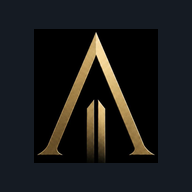
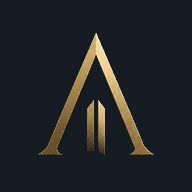
v26
Skip button update and adding a icon edits

diff --git a/app.js b/app.js
@@ -62,6 +62,29 @@ function migrateEquipmentUpgrade(){
   state.notes=migratedNotes;
   state.equipmentUpgradeV23=true;
 }
+function sessionId(member,week,day,index){return [member,week,day,index].join('|')}
+function planForSession(member,week){
+  const plan=programFor(member);
+  const snapshots=state.programSnapshots||{};
+  for(const day of Object.keys(plan)){
+    const snapshot=snapshots[[member,week,day].join('|')];
+    if(snapshot)plan[day].exercises=cloneExercises(snapshot);
+    plan[day].exercises=plan[day].exercises.map((ex,i)=>{
+      const replacement=state.sessionSwaps?.[sessionId(member,week,day,i)];
+      return replacement? [...replacement]:ex;
+    });
+  }
+  return plan;
+}
+function isSkipped(member,week,day,index){return !!state.skippedExercises?.[sessionId(member,week,day,index)]}
+function snapshotCurrentPrograms(member){
+  state.programSnapshots ||= {};
+  const plan=programFor(member);
+  for(let w=1;w<=state.week;w++)for(const day of Object.keys(plan)){
+    const k=[member,w,day].join('|');
+    if(!state.programSnapshots[k])state.programSnapshots[k]=cloneExercises(plan[day].exercises);
+  }
+}
 function programFor(member){
   migratePrograms();
   const base=baseProgramFor(member);
@@ -104,7 +127,7 @@ function noteButton(scope,label,member,week,day,exercise,setIndex,compact=false)
 function getLog(member,week,day,exercise){return state.logs[key(member,week,day,exercise)] || null}
 function targetText(ex){return ex[3]==null?'Each':`${ex[2]}–${ex[3]}`}
 function sessionRows(member,week,day,exercise){
-  const plan=programFor(member);
+  const plan=planForSession(member,week);
   const ex=plan[day]?.exercises.find(x=>x[0]===exercise); if(!ex) return null;
   const existing=getLog(member,week,day,exercise);
   if(existing){
@@ -129,7 +152,7 @@ function metrics(log,ex){
   return {top:Math.max(0,...weights),reps:repsTotal,volume,ready};
 }
 function dayComplete(member,week,day){
-  return programFor(member)[day].exercises.every(ex=>{const l=getLog(member,week,day,ex[0]); return ex[1]===0 ? true : !!l && l.sets.length===ex[1] && l.sets.every(s=>s.reps!=='');});
+  return planForSession(member,week)[day].exercises.every((ex,i)=>{if(isSkipped(member,week,day,i))return true;const l=getLog(member,week,day,ex[0]); return ex[1]===0 ? true : !!l && l.sets.length===ex[1] && l.sets.every(s=>s.reps!=='');});
 }
 function esc(s){return String(s).replace(/[&<>"']/g,c=>({'&':'&amp;','<':'&lt;','>':'&gt;','"':'&quot;',"'":'&#39;'}[c]))}
 function toast(msg){const t=document.getElementById('toast');t.textContent=msg;t.classList.add('show');setTimeout(()=>t.classList.remove('show'),1700)}
@@ -145,12 +168,12 @@ function homeView(){
   </section><div class="section-title">Training days</div><div class="day-grid">${days.map(day=>dayCard(m,w,day)).join('')}</div>
   <div class="section-title">Program notes</div><div class="info">Choose a starting weight. Keep that weight until all target sets reach the top of the range. Then add 5 lb next session and start the rep target back at the bottom.</div>`;
 }
-function dayCard(m,w,day){const plan=programFor(m),done=dayComplete(m,w,day), n=plan[day].exercises.length;return `<button class="day-card" data-open-day="${day}" style="text-align:left"><div class="day-top"><div><div class="day-name">${day}</div><div class="focus">${plan[day].focus} · ${n} exercises</div></div><div class="done-dot ${done?'done':''}"></div></div><div class="action-row" style="margin-top:12px"><span class="secondary" style="display:flex;align-items:center;justify-content:center">${done?'Review':'Start workout'}</span></div></button>`}
+function dayCard(m,w,day){const plan=planForSession(m,w),done=dayComplete(m,w,day), n=plan[day].exercises.length;return `<button class="day-card" data-open-day="${day}" style="text-align:left"><div class="day-top"><div><div class="day-name">${day}</div><div class="focus">${plan[day].focus} · ${n} exercises</div></div><div class="done-dot ${done?'done':''}"></div></div><div class="action-row" style="margin-top:12px"><span class="secondary" style="display:flex;align-items:center;justify-content:center">${done?'Review':'Start workout'}</span></div></button>`}
 
 function workoutView(week,day){
-  const m=state.member, info=programFor(m)[day];
+  const m=state.member, info=planForSession(m,week)[day];
   return `<div class="workout-head"><div><button class="back" data-back>← Back</button><h2 style="margin-top:14px">${day} · Week ${week}</h2><p>${esc(info.focus)}</p></div>${noteButton('workout',day+' workout',m,week,day)}</div>
-    ${info.exercises.map((ex,i)=>exerciseCard(m,week,day,ex,i)).join('')}
+    ${info.exercises.map((ex,i)=>isSkipped(m,week,day,i)?`<article class="exercise skipped-exercise"><div class="exercise-head"><div><div class="exercise-name">${esc(ex[0])}</div><div class="muted">Skipped for this workout</div></div><button class="secondary" data-unskip="${i}">Restore</button></div></article>`:exerciseCard(m,week,day,ex,i)).join('')}
     <div class="action-row" style="margin:18px 0 6px"><button class="primary" data-finish-workout>Save ${day}</button></div>`;
 }
 
@@ -173,6 +196,7 @@ function exerciseCard(m,w,day,ex,index=0){
   const status=loggedCount>=ex[1]?'complete':loggedCount>0?'active':'ready';
   const superset=(day==='Friday' && (ex[0]==='EZ Curl'||ex[0]==='Triceps Pushdown'))?'<span class="superset-badge">SUPERSET A</span>':'';
   return `<article class="exercise exercise-${status}" data-exercise="${esc(ex[0])}"><div class="exercise-head"><div><div class="exercise-index">EXERCISE ${String(index+1).padStart(2,'0')} · ${status==='complete'?'COMPLETE':status==='active'?'IN PROGRESS':'READY'}</div><div class="exercise-name">${esc(ex[0])}</div><div class="range">${targetText(ex)} reps · ${isSaved?'saved':'ready to log'} ${superset}</div></div><button class="plate-quick" data-plate-ex="${esc(ex[0])}" data-plate-weight="${suggested||''}" aria-label="Plate count for ${esc(ex[0])}">🧮 ${suggested?suggested+' lb':'Plates'}</button>${mt.ready?(ex[0]==='Assisted Chin-Ups'?'<span class="add-badge">REDUCE 5 LB ASSISTANCE</span>':'<span class="add-badge">ADD 5 LB NEXT</span>'):'<span class="keep-badge">KEEP WEIGHT</span>'}</div>
+    <div class="exercise-actions"><button type="button" class="secondary" data-swap-slot="${index}">⇄ Swap exercise</button><button type="button" class="secondary" data-skip-slot="${index}">Skip today</button></div>
     <div class="warmup-slot"><details class="warmup-disclosure"><summary>Warm-up <span>· Tap to view</span></summary>${warmupView(day,ex,suggested)}</details></div>
     <div class="set-table header"><div>Set</div><div>Weight</div><div>Reps</div><div>Note</div><div></div></div>
     ${log.sets.map((s,i)=>`<div class="set-table"><div class="set-num">${i+1}</div><input class="mini-input set-weight" inputmode="decimal" type="number" min="0" step="5" value="${s.weight??''}" aria-label="${ex[0]} set ${i+1} weight"><input class="mini-input set-reps" inputmode="numeric" type="number" min="0" step="1" placeholder="${ex[2]}-${ex[3]}" value="${s.reps??''}" aria-label="${ex[0]} set ${i+1} reps">${noteButton('set',ex[0]+' set '+(i+1),m,w,day,ex[0],i,true)}<div class="set-status ${ex[3]!=null && Number(s.reps)>=ex[3]?'good':'bad'}">${ex[3]!=null&&Number(s.reps)>=ex[3]?'✓':'•'}</div></div>`).join('')}
@@ -188,7 +212,7 @@ return `<section class="hero"><h2>${esc(m)} · Progress</h2><p>Track working wei
 function progressItem(m,ex){const values=[];for(let w=1;w<=WEEKS;w++){let found=null;for(const d of daysFor(m)){const l=getLog(m,w,d,ex[0]);if(l){const mt=metrics(l,ex);found=mt.top||l.workingWeight||0;break}}values.push(found||0)}const best=Math.max(0,...values);return `<article class="progress-item"><div class="top"><div class="exercise-name">${esc(ex[0])}</div><div class="muted">Best ${best||'—'} lb</div></div><div class="mini-grid">${values.map((v,i)=>`<div class="week-chip ${i+1===state.week?'active':''}"><div class="w">W${i+1}</div><div class="v">${v||'—'}</div></div>`).join('')}</div></article>`}
 
 
-function volumeView(){const m=state.member,w=state.week,plan=programFor(m),planned=Volume.programmedVolume(plan,MUSCLE_MAP),done=Volume.completedVolume(state.logs,plan,MUSCLE_MAP,m,w);const shoulderParts=['Delts','Front Delts','Side Delts','Rear Delts'];const shoulderProgram=shoulderParts.reduce((n,x)=>n+(planned[x]||0),0);const shoulderDone=shoulderParts.reduce((n,x)=>n+(done[x]||0),0);const muscles=Object.keys(planned).sort((a,b)=>planned[b]-planned[a]);return `<section class="hero"><h2>${esc(m)} · Weekly Volume</h2><p>Weighted sets: prime mover 1.0 · secondary muscle 0.5 · isolation target 1.0.</p><div class="select-row"><div><label class="field-label">Member</label><select id="memberSelect" class="select">${MEMBERS.map(x=>`<option ${x===m?'selected':''}>${x}</option>`).join('')}</select></div><div><label class="field-label">Week</label><select id="weekSelect" class="select">${Array.from({length:WEEKS},(_,i)=>`<option value="${i+1}" ${i+1===w?'selected':''}>Week ${i+1}</option>`).join('')}</select></div></div></section><div class="info">MV &lt;6 · MEV 6–&lt;10 · MAV 10–20 · MRV &gt;20 weighted sets/week. These are guideposts, not individual recovery limits.</div><div class="section-title">Programmed vs completed</div><div class="volume-card volume-row"><b>Shoulders — Total</b><div class="volume-number">${shoulderProgram.toFixed(1)}</div><div class="volume-number">${shoulderDone.toFixed(1)}</div><div class="volume-status ${Volume.classifyVolume(shoulderProgram)}">${Volume.classifyVolume(shoulderProgram)}</div></div><div class="info">Shoulder total combines general delts plus front, side, and rear-delt weighted credits. Individual rows remain below for detail.</div><div class="volume-card volume-row volume-head"><div>Muscle</div><div>Program</div><div>Done</div><div>Zone</div></div>${muscles.map(x=>`<div class="volume-card volume-row"><b>${x}</b><div class="volume-number">${planned[x].toFixed(1)}</div><div class="volume-number">${(done[x]||0).toFixed(1)}</div><div class="volume-status ${Volume.classifyVolume(planned[x])}">${Volume.classifyVolume(planned[x])}</div></div>`).join('')}`;}
+function volumeView(){const m=state.member,w=state.week,plan=planForSession(m,w);for(const day of Object.keys(plan))plan[day].exercises=plan[day].exercises.filter((_,i)=>!isSkipped(m,w,day,i));const planned=Volume.programmedVolume(plan,MUSCLE_MAP),done=Volume.completedVolume(state.logs,plan,MUSCLE_MAP,m,w);const shoulderParts=['Delts','Front Delts','Side Delts','Rear Delts'];const shoulderProgram=shoulderParts.reduce((n,x)=>n+(planned[x]||0),0);const shoulderDone=shoulderParts.reduce((n,x)=>n+(done[x]||0),0);const muscles=Object.keys(planned).sort((a,b)=>planned[b]-planned[a]);return `<section class="hero"><h2>${esc(m)} · Weekly Volume</h2><p>Weighted sets: prime mover 1.0 · secondary muscle 0.5 · isolation target 1.0.</p><div class="select-row"><div><label class="field-label">Member</label><select id="memberSelect" class="select">${MEMBERS.map(x=>`<option ${x===m?'selected':''}>${x}</option>`).join('')}</select></div><div><label class="field-label">Week</label><select id="weekSelect" class="select">${Array.from({length:WEEKS},(_,i)=>`<option value="${i+1}" ${i+1===w?'selected':''}>Week ${i+1}</option>`).join('')}</select></div></div></section><div class="info">MV &lt;6 · MEV 6–&lt;10 · MAV 10–20 · MRV &gt;20 weighted sets/week. These are guideposts, not individual recovery limits.</div><div class="section-title">Programmed vs completed</div><div class="volume-card volume-row"><b>Shoulders — Total</b><div class="volume-number">${shoulderProgram.toFixed(1)}</div><div class="volume-number">${shoulderDone.toFixed(1)}</div><div class="volume-status ${Volume.classifyVolume(shoulderProgram)}">${Volume.classifyVolume(shoulderProgram)}</div></div><div class="info">Shoulder total combines general delts plus front, side, and rear-delt weighted credits. Individual rows remain below for detail.</div><div class="volume-card volume-row volume-head"><div>Muscle</div><div>Program</div><div>Done</div><div>Zone</div></div>${muscles.map(x=>`<div class="volume-card volume-row"><b>${x}</b><div class="volume-number">${planned[x].toFixed(1)}</div><div class="volume-number">${(done[x]||0).toFixed(1)}</div><div class="volume-status ${Volume.classifyVolume(planned[x])}">${Volume.classifyVolume(planned[x])}</div></div>`).join('')}`;}
 
 function macrosView(){
   const m=state.member,n=nutritionState(m),date=document.getElementById('macroDate')?.value||todayKey(),d=n.days[date]||{protein:'',fat:'',carbs:'',weight:'',dayType:'training'},base=n.targets, snapshot=d.targetSnapshot||base;
@@ -298,8 +322,15 @@ function bind(){
   });
   document.querySelectorAll('.editor-exercise').forEach(sel=>sel.onchange=()=>{const row=sel.closest('.program-slot');const meta=window.BarbarianExercises.metadata(sel.value);if(!row||!meta)return;row.querySelector('.editor-min').value=meta.min;row.querySelector('.editor-max').value=meta.max;const info=row.querySelector('.muted');if(info)info.textContent=`${meta.type} · ${meta.equipment} · ${meta.primary}${meta.secondary.length?' + '+meta.secondary.join(', '):''}`;});
   document.querySelectorAll('[data-route]').forEach(b=>b.onclick=()=>{route=b.dataset.route;editing=null;render()});
-  document.querySelectorAll('[data-open-day]').forEach(b=>b.onclick=()=>{editing={week:state.week,day:b.dataset.openDay};render()});
+  document.querySelectorAll('[data-open-day]').forEach(b=>b.onclick=()=>{const day=b.dataset.openDay,k=[state.member,state.week,day].join('|');state.programSnapshots ||= {};if(!state.programSnapshots[k]){state.programSnapshots[k]=cloneExercises(programFor(state.member)[day].exercises);saveState();}editing={week:state.week,day};render()});
   document.querySelectorAll('[data-save-ex]').forEach(b=>b.onclick=()=>saveExercise(b.dataset.saveEx));
+  document.querySelectorAll('[data-swap-slot]').forEach(b=>b.onclick=()=>openSwapDialog(Number(b.dataset.swapSlot)));
+  document.querySelectorAll('[data-skip-slot]').forEach(b=>b.onclick=()=>{
+    const i=Number(b.dataset.skipSlot),ex=planForSession(state.member,editing.week)[editing.day].exercises[i];
+    if(!confirm(`Skip ${ex[0]} for this workout? The program and prior logs stay unchanged.`))return;
+    persistAllVisibleExercises();state.skippedExercises ||= {};state.skippedExercises[sessionId(state.member,editing.week,editing.day,i)]=true;saveState();render();
+  });
+  document.querySelectorAll('[data-unskip]').forEach(b=>b.onclick=()=>{delete state.skippedExercises[sessionId(state.member,editing.week,editing.day,Number(b.dataset.unskip))];saveState();render()});
   document.querySelectorAll('[data-rest-start]').forEach(b=>b.onclick=()=>startRestTimer(b.dataset.restStart));
   document.querySelectorAll('[data-plate-ex]').forEach(b=>b.onclick=()=>openPlateDialog(b.dataset.plateEx,b.dataset.plateWeight));
   const pc=document.querySelector('.plate-controls');if(pc&&route==='plates')bindPlateControls(document.getElementById('app'));
@@ -328,6 +359,36 @@ function bind(){
   const md=document.getElementById('macroDate');if(md)md.onchange=()=>render(); const sm=document.getElementById('saveMacros');if(sm)sm.onclick=saveMacroDay; const st=document.getElementById('saveTargets');if(st)st.onclick=saveMacroTargets; const dt=document.getElementById('dayType');if(dt)dt.onchange=()=>{const n=nutritionState(state.member),date=md?.value||todayKey();n.days[date]=Object.assign(n.days[date]||{}, {dayType:dt.value,targetSnapshot:n.days[date]?.targetSnapshot||{...n.targets}});saveState();render()}; document.querySelectorAll('[data-macro-date]').forEach(b=>b.onclick=()=>{const md=document.getElementById('macroDate');if(md){md.value=b.dataset.macroDate;render()}}); document.querySelectorAll('[data-adjust]').forEach(b=>b.onclick=()=>applyMacroAdjustment(Number(b.dataset.adjust)));  const sc=document.getElementById('saveCardio');if(sc)sc.onclick=saveCardio; const cc=document.getElementById('clearCardio');if(cc)cc.onclick=clearCardio; const cd=document.getElementById('cardioDate');if(cd)cd.onchange=()=>{const c=cardioState(state.member),x=c.days[cd.value]||Cardio.blankEntry();['cardioActivity','cardioIntensity','cardioDuration','cardioDistance','cardioCalories'].forEach(id=>{const el=document.getElementById(id);if(id==='cardioActivity')el.value=x.activity||'Walking'; if(id==='cardioIntensity')el.value=x.intensity||'Moderate'; if(id==='cardioDuration')el.value=x.duration||''; if(id==='cardioDistance')el.value=x.distance||''; if(id==='cardioCalories')el.value=x.calories||'';});}; 
 }
 
+function openSwapDialog(index){
+  const m=state.member,w=editing.week,day=editing.day,plan=planForSession(m,w),old=plan[day].exercises[index];
+  const dlg=document.getElementById('noteDialog');
+  dlg.innerHTML=`<div class="note-dialog-head"><div><div class="field-label">Exercise ${index+1}</div><h3>Swap ${esc(old[0])}</h3></div><button class="icon-btn" data-swap-close>×</button></div><label class="field-label" for="swapExercise">Replacement</label><select class="select" id="swapExercise">${exerciseOptions(old[0])}</select><div class="field-label" style="margin-top:14px">Apply replacement</div><label class="swap-option"><input type="radio" name="swapScope" value="today" checked> This workout only</label><label class="swap-option"><input type="radio" name="swapScope" value="program"> Rest of program (starting this week)</label><div class="info" style="margin-top:12px">Uses the replacement's recommended rep range and preserves the original exercise's history. A program change affects this member only.</div><div class="action-row" style="margin-top:14px"><button class="primary" data-confirm-swap>Apply swap</button><button class="secondary" data-swap-cancel>Cancel</button></div>`;
+  dlg.querySelector('[data-swap-close]').onclick=()=>dlg.close();dlg.querySelector('[data-swap-cancel]').onclick=()=>dlg.close();
+  dlg.querySelector('[data-confirm-swap]').onclick=()=>{
+    const name=dlg.querySelector('#swapExercise').value,meta=window.BarbarianExercises.metadata(name);
+    if(!meta)return;
+    const replacement=[name,old[1],meta.min,meta.max];
+    const scope=dlg.querySelector('input[name=swapScope]:checked').value;
+    persistAllVisibleExercises();
+    if(scope==='today'){
+      state.sessionSwaps ||= {};state.sessionSwaps[sessionId(m,w,day,index)]=replacement;
+    }else{
+      state.programSnapshots ||= {};
+      const current=programFor(m)[day].exercises;
+      // Freeze earlier weeks so later program edits never rewrite past workouts.
+      for(let prior=1;prior<w;prior++){
+        const k=[m,prior,day].join('|');
+        if(!state.programSnapshots[k])state.programSnapshots[k]=cloneExercises(current);
+      }
+      state.programs[m][day][index]=replacement;
+      // The current session should reflect the permanent selection, not an older one-day swap.
+      if(state.sessionSwaps)delete state.sessionSwaps[sessionId(m,w,day,index)];
+      state.programSnapshots[[m,w,day].join('|')]=cloneExercises(state.programs[m][day]);
+    }
+    saveState();dlg.close();toast(`${name} selected`);render();
+  };
+  dlg.showModal();
+}
 function openNoteDialog(button){
   const scope=button.dataset.noteScope, exercise=button.dataset.noteExercise||'', rawSet=button.dataset.noteSet;
   const setIndex=rawSet===''?null:Number(rawSet), dlg=document.getElementById('noteDialog');
@@ -354,10 +415,10 @@ function syncFollowingWeights(input){
   });
 }
 
-function readCard(card){const name=card.dataset.exercise;const ex=[...daysFor(state.member).flatMap(d=>programFor(state.member)[d].exercises)].find(x=>x[0]===name);const sets=[...card.querySelectorAll('.set-table:not(.header)')].map(r=>({weight:r.querySelector('.set-weight').value, reps:r.querySelector('.set-reps').value}));const ww=sets.find(s=>s.weight!=='')?.weight||'';return {workingWeight:Number(ww)||0,sets,saved:true};}
+function readCard(card){const name=card.dataset.exercise;const ex=[...daysFor(state.member).flatMap(d=>planForSession(state.member,state.week)[d].exercises)].find(x=>x[0]===name);const sets=[...card.querySelectorAll('.set-table:not(.header)')].map(r=>({weight:r.querySelector('.set-weight').value, reps:r.querySelector('.set-reps').value}));const ww=sets.find(s=>s.weight!=='')?.weight||'';return {workingWeight:Number(ww)||0,sets,saved:true};}
 function persistAllVisibleExercises(){document.querySelectorAll('[data-save-ex]').forEach(b=>{const card=b.closest('.exercise');if(card){const name=card.dataset.exercise;const log=readCard(card);state.logs[key(state.member,state.week,editing.day,name)]=log;}});saveState()}
 function saveExercise(name){const card=document.querySelector(`[data-exercise="${CSS.escape(name)}"]`);if(!card)return;state.logs[key(state.member,state.week,editing.day,name)]=readCard(card);saveState();toast(`${name} saved`);render();}
-function refreshCardMetrics(e){const card=e.target.closest('.exercise');if(!card)return;const ex=programFor(state.member)[editing.day].exercises.find(x=>x[0]===card.dataset.exercise);const sets=[...card.querySelectorAll('.set-table:not(.header)')].map(r=>({weight:r.querySelector('.set-weight').value,reps:r.querySelector('.set-reps').value}));const mt=metrics({sets},ex);card.querySelector('.top-val').textContent=mt.top||'—';card.querySelector('.reps-val').textContent=mt.reps||'—';card.querySelector('.volume-val').textContent=mt.volume?Math.round(mt.volume):'—';if(e.target.classList.contains('set-weight')){const quick=card.querySelector('[data-plate-ex]');if(quick){const ww0=sets.find(s=>s.weight!=='')?.weight||0;quick.dataset.plateWeight=ww0;quick.textContent=`🧮 ${ww0?ww0+' lb':'Plates'}`;}const slot=card.querySelector('.warmup-slot');if(slot){const ww=sets.find(s=>s.weight!=='')?.weight||0;const wasOpen=!!slot.querySelector('details')?.open;slot.innerHTML=`<details class="warmup-disclosure" ${wasOpen?'open':''}><summary>Warm-up <span>· Tap to view</span></summary>${warmupView(editing.day,ex,ww)}</details>`;slot.querySelectorAll('[data-warmup-rest]').forEach(b=>b.onclick=()=>startRestTimer(b.dataset.warmupLabel,Number(b.dataset.warmupRest)));}}}
+function refreshCardMetrics(e){const card=e.target.closest('.exercise');if(!card)return;const ex=planForSession(state.member,editing.week)[editing.day].exercises.find(x=>x[0]===card.dataset.exercise);const sets=[...card.querySelectorAll('.set-table:not(.header)')].map(r=>({weight:r.querySelector('.set-weight').value,reps:r.querySelector('.set-reps').value}));const mt=metrics({sets},ex);card.querySelector('.top-val').textContent=mt.top||'—';card.querySelector('.reps-val').textContent=mt.reps||'—';card.querySelector('.volume-val').textContent=mt.volume?Math.round(mt.volume):'—';if(e.target.classList.contains('set-weight')){const quick=card.querySelector('[data-plate-ex]');if(quick){const ww0=sets.find(s=>s.weight!=='')?.weight||0;quick.dataset.plateWeight=ww0;quick.textContent=`🧮 ${ww0?ww0+' lb':'Plates'}`;}const slot=card.querySelector('.warmup-slot');if(slot){const ww=sets.find(s=>s.weight!=='')?.weight||0;const wasOpen=!!slot.querySelector('details')?.open;slot.innerHTML=`<details class="warmup-disclosure" ${wasOpen?'open':''}><summary>Warm-up <span>· Tap to view</span></summary>${warmupView(editing.day,ex,ww)}</details>`;slot.querySelectorAll('[data-warmup-rest]').forEach(b=>b.onclick=()=>startRestTimer(b.dataset.warmupLabel,Number(b.dataset.warmupRest)));}}}
 function startRestTimer(exercise,seconds){ if(window.BarbarianRestTimer) window.BarbarianRestTimer.start(exercise, seconds||window.BarbarianRest.DEFAULT_SECONDS); }
 
 function exerciseOptions(selected){
@@ -376,7 +437,7 @@ function findLastExerciseWeight(member,exercise){
   return best||0;
 }
 function saveProgramChanges(){
-  const m=state.member,day=document.getElementById('editorDay')?.value; if(!day)return;
+  const m=state.member,day=document.getElementById('editorDay')?.value; if(!day)return; snapshotCurrentPrograms(m);
   const rows=[...document.querySelectorAll('.program-slot')];
   state.programs=state.programs||{}; state.programs[m]=state.programs[m]||{};
   state.programs[m][day]=rows.map(row=>{const name=row.querySelector('.editor-exercise').value; const sets=Math.max(1,Number(row.querySelector('.editor-sets').value)||1); const min=Math.max(1,Number(row.querySelector('.editor-min').value)||1); const max=Math.max(min,Number(row.querySelector('.editor-max').value)||min); return [name,sets,min,max];});

diff --git a/exercise-library.js b/exercise-library.js
@@ -1,5 +1,6 @@
 (function(){
   const LIBRARY = {
+    'Front Squat': {category:'Legs', primary:'Quads', secondary:['Glutes','Core'], type:'compound', min:6,max:10,equipment:'Half Rack / Barbell', startingResistance:45},
     'Barbell Back Squat': {category:'Legs', primary:'Quads', secondary:['Glutes','Hamstrings'], type:'compound', min:6,max:8,equipment:'Half Rack / Barbell', startingResistance:45},
     'Smith Machine Squat': {category:'Legs', primary:'Quads', secondary:['Glutes','Hamstrings'], type:'compound', min:6,max:8,equipment:'Smith Machine'},
     'Plate-Loaded Hack Squat': {category:'Legs', primary:'Quads', secondary:['Glutes','Hamstrings'], type:'compound', min:8,max:12,equipment:'Plate-Loaded Machine', startingResistance:105},
@@ -30,11 +31,13 @@
     'Pullups': {category:'Back', primary:'Back', secondary:['Biceps'], type:'compound', min:6,max:9,equipment:'Bodyweight'},
     'Assisted Chin-Ups': {category:'Back', primary:'Back', secondary:['Biceps'], type:'compound', min:8,max:12,equipment:'Machine'},
     'Lat Pulldown': {category:'Back', primary:'Back', secondary:['Biceps'], type:'compound', min:8,max:12,equipment:'Cable/Machine'},
+    'Landmine Row': {category:'Back', primary:'Back', secondary:['Biceps','Rear Delts'], type:'compound', min:8,max:12,equipment:'Landmine / 45 lb Barbell', startingResistance:45},
     'Chest-Supported Row': {category:'Back', primary:'Back', secondary:['Biceps','Rear Delts'], type:'compound', min:10,max:12,equipment:'Machine/Dumbbell'},
     'Cable Row': {category:'Back', primary:'Back', secondary:['Biceps','Rear Delts'], type:'compound', min:8,max:12,equipment:'Cable'},
     'EZ Curl': {category:'Biceps', primary:'Biceps', secondary:[], type:'isolation', min:10,max:12,equipment:'EZ Bar'},
     'Incline DB Curl': {category:'Biceps', primary:'Biceps', secondary:[], type:'isolation', min:8,max:12,equipment:'Dumbbell'},
     'Hammer Curl': {category:'Biceps', primary:'Biceps', secondary:[], type:'isolation', min:10,max:15,equipment:'Dumbbell'},
+    'Cable Bent-over Triceps Extension': {category:'Triceps', primary:'Triceps', secondary:[], type:'isolation', min:10,max:15,equipment:'Cable'},
     'Triceps Pushdown': {category:'Triceps', primary:'Triceps', secondary:[], type:'isolation', min:10,max:12,equipment:'Cable'},
   };
   const categories=[...new Set(Object.values(LIBRARY).map(x=>x.category))];

diff --git a/styles.css b/styles.css
@@ -69,3 +69,5 @@ button,input,select{font:inherit}button{color:inherit}button:focus-visible,input
 .exercise{background:#202A35;border-color:#56616D}
 .exercise.exercise-active{background:#273746}
 .warmup-disclosure{background:#19232E}
+
+.exercise-actions{display:flex;gap:8px;flex-wrap:wrap;margin:10px 0 4px}.exercise-actions button{flex:1;min-width:125px}.skipped-exercise{opacity:.7;border-style:dashed}.swap-option{display:flex;gap:10px;align-items:center;padding:10px 0;color:var(--text);font-size:14px}.swap-option input{accent-color:#C59A59}

diff --git a/sw.js b/sw.js
@@ -1,4 +1,4 @@
-const CACHE = 'barbarian-bulk-v25';
+const CACHE = 'barbarian-bulk-v26';
 const ASSETS = [
   './', './index.html', './styles.css', './app.js', './nutrition.js', './cardio.js',
   './volume.js', './plate-counter.js', './rest-timer.js', './warmup.js', './weight-sync.js', './exercise-library.js', './manifest.json',

diff --git a/README.md b/README.md
@@ -38,3 +38,10 @@ Warm-up sections start collapsed, with tap-to-expand details. Program Editor inc
 - Applies Heldkraft palette: Iron Black #151B23, Antique Gold #C59A59, Vintage Cream #E8DCC7, Steel Gray #56616D.
 - Retains Barbarian Bulk app name and all v24 functionality/data keys.
 - Cache version updated to v25. iOS Home Screen icons may require reinstalling the shortcut after exporting a backup; do not delete the app before backing up local data.
+
+
+## v26: flexible sessions
+- Added Front Squat (45-lb bar), Cable Bent-over Triceps Extension, and Landmine Row (45-lb bar) to the library.
+- On workout cards, Swap exercise offers **This workout only** or **Rest of program**. One-day swaps use session overrides and do not change the program; permanent swaps update the member's program while retaining earlier weeks.
+- Skip today hides an exercise from this session and excludes it from that session's completion/volume; Restore reverses the skip. Existing logs are not deleted.
+- Atlas icon's black background has been harmonized with Iron Black.
